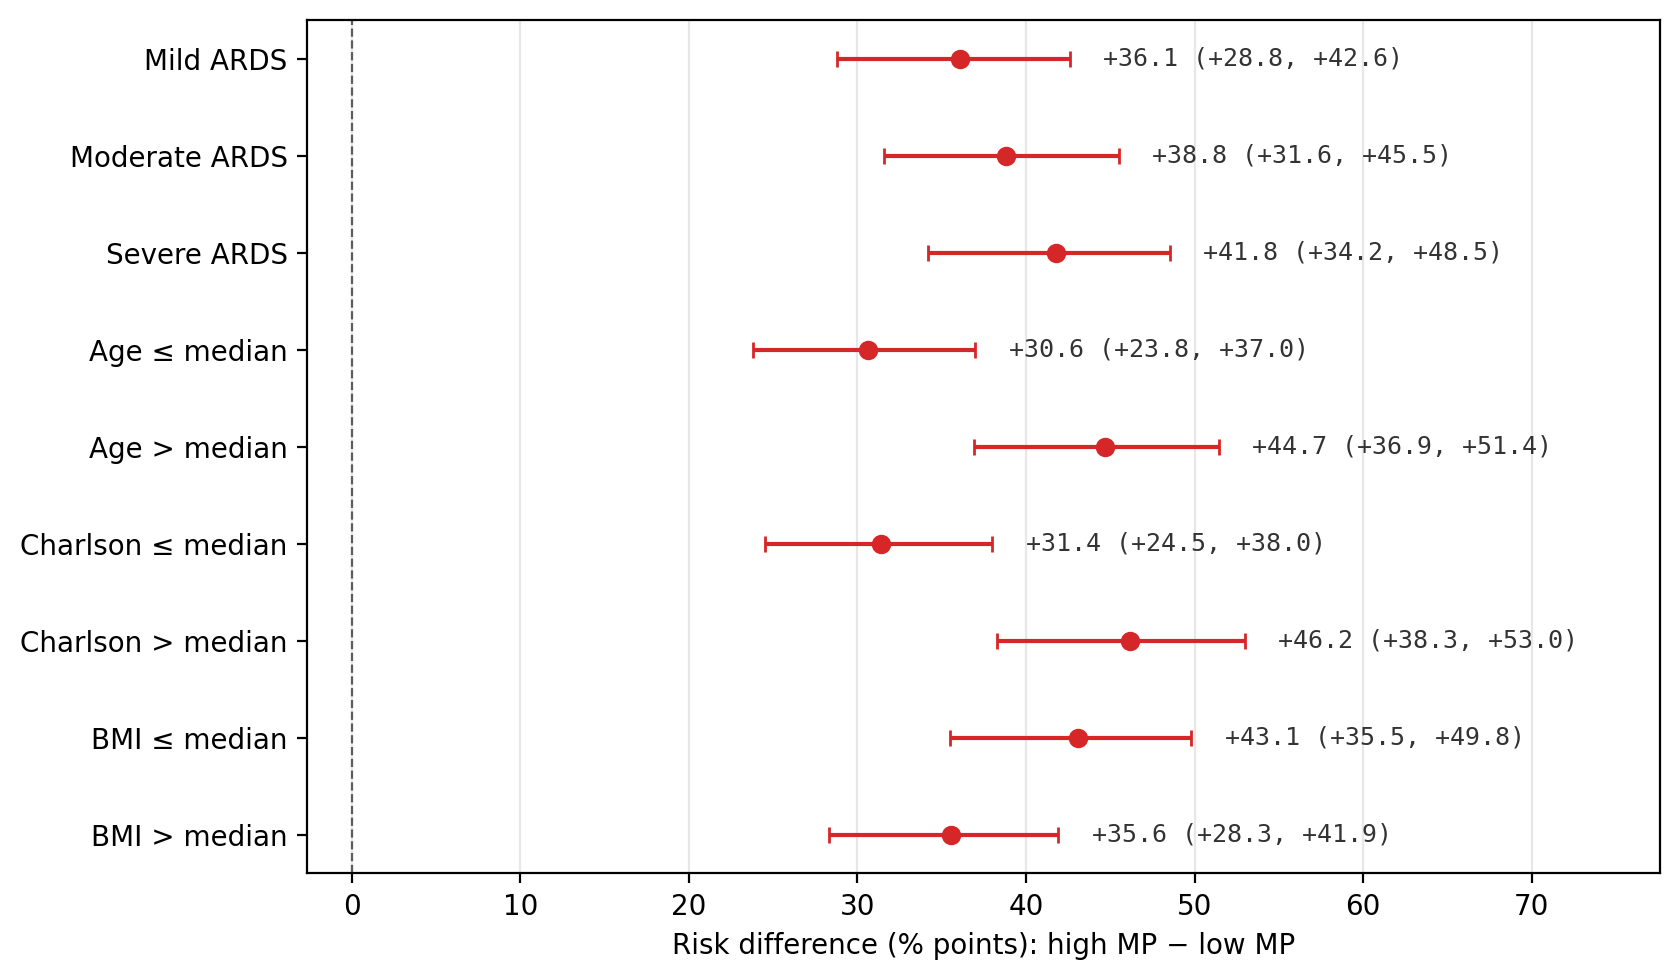
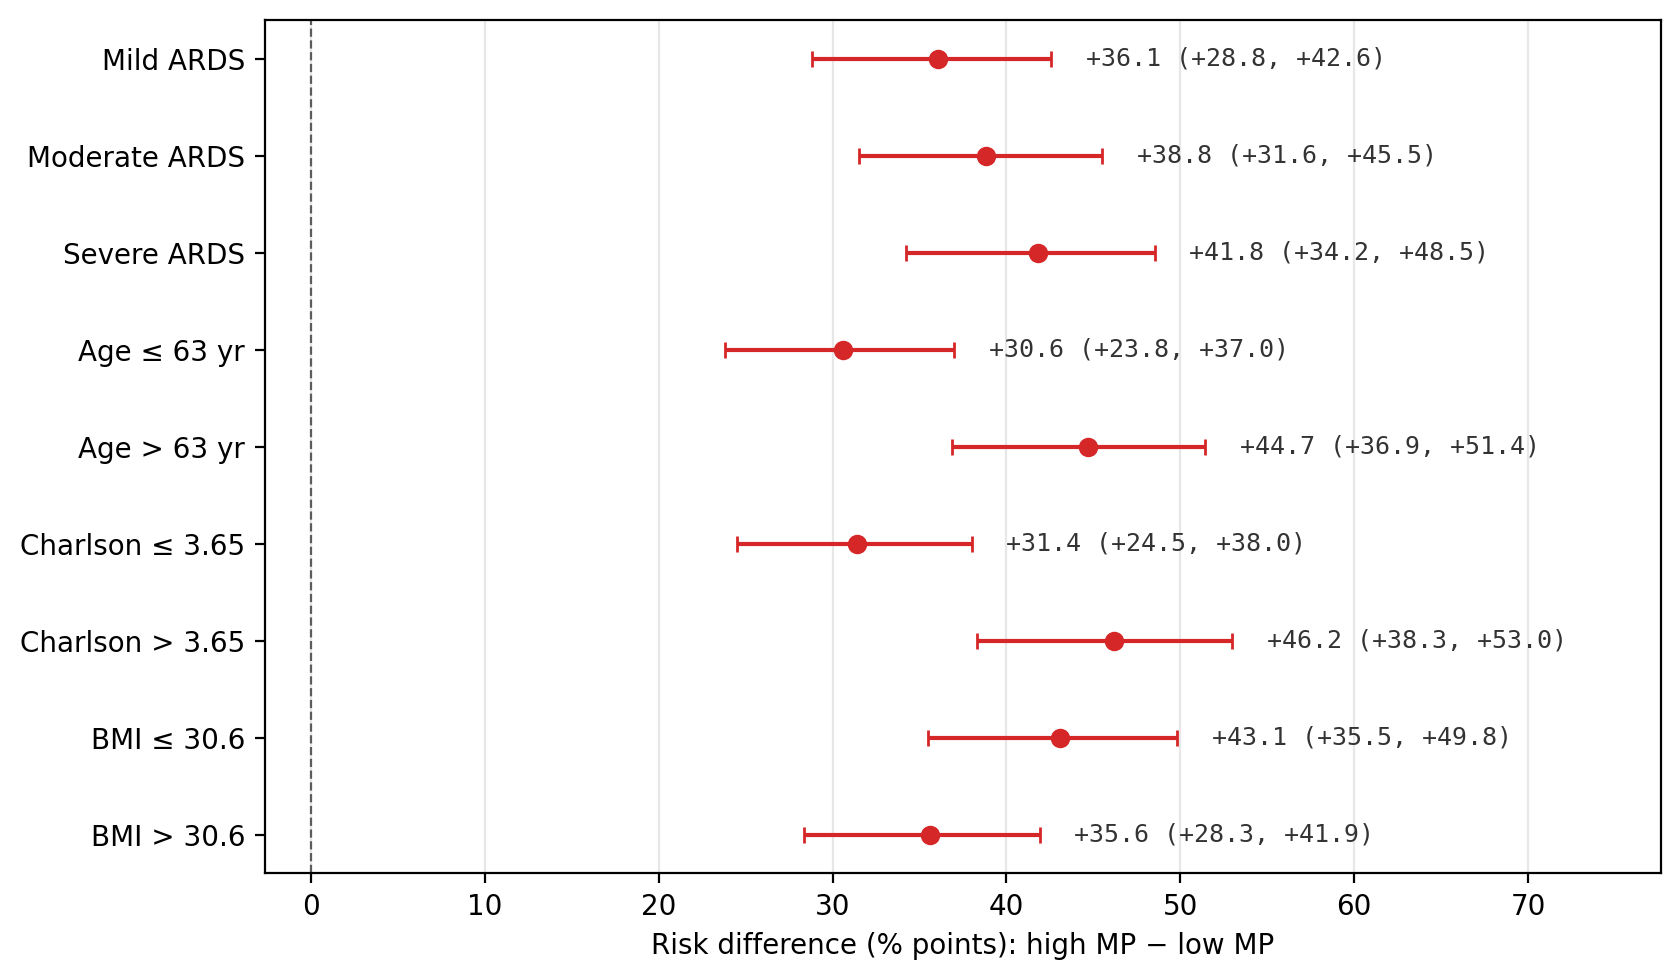
Fig 4: explicit subgroup cutoffs (Age 63 yr, BMI 30.6, Charlson 3.65 — cohort means). README: replace fragile inline LaTeX (operatorname/comma/hat) with Unicode (±, ≤, ≥, λ, τ, etc.) for robust GitHub rendering, drop Figure-N prefixes

diff --git a/scripts/make_figures.py b/scripts/make_figures.py
@@ -111,11 +111,13 @@ def fig4_subgroup_forest(args):
     idx = [names.index(n) for n in order if n in names]
     fig, ax = plt.subplots(figsize=(8.5, 5))
     y = np.arange(len(idx))
+    # Subgroup cutoffs are at cohort means (z-score = 0):
+    # age = 62.9 yr, BMI = 30.6, Charlson = 3.65
     label_pretty = {
         "mild": "Mild ARDS", "moderate": "Moderate ARDS", "severe": "Severe ARDS",
-        "age_low": "Age ≤ median", "age_high": "Age > median",
-        "charlson_low": "Charlson ≤ median", "charlson_high": "Charlson > median",
-        "bmi_low": "BMI ≤ median", "bmi_high": "BMI > median",
+        "age_low": "Age ≤ 63 yr", "age_high": "Age > 63 yr",
+        "charlson_low": "Charlson ≤ 3.65", "charlson_high": "Charlson > 3.65",
+        "bmi_low": "BMI ≤ 30.6", "bmi_high": "BMI > 30.6",
     }
     for i, j in enumerate(idx):
         ax.errorbar(rd[j], y[i],

diff --git a/README.md b/README.md
@@ -35,10 +35,10 @@ of approximately 17 J/min.
 
 ![Dose-response: 4-method comparison and K=5 with credible band](results/figures/fig3_dose_response.png)
 
-*Figure 3.* Left: four-method overlay on log-MP axis. Standard NICE
+Left: four-method overlay on log-MP axis. Standard NICE
 (grey, frequentist), K=1 NICE Bayesian (blue), and K=5 FRE-NICE Bayesian
 (red) cluster tightly above approximately 6 J/min; the Xu (2024) Bayesian
-GLMM (orange, observed-$L$ plug-in) is essentially flat. Dashed vertical
+GLMM (orange, observed-L plug-in) is essentially flat. Dashed vertical
 line marks the Costa et al. (2021) 17 J/min clinical cutoff. Right: K=5
 posterior mean with 95% credible band.
 
@@ -70,61 +70,62 @@ confirms this:
 | **K=5 FRE-NICE** | **25.1%** | **$-0.5$ p.p.** | **✓** |
 | Xu Bayesian (MSM) | 29.3% | $+3.7$ p.p. | overshoot |
 
-The NICE-family miss is within $\pm 1$ percentage point; the Xu
+The NICE-family miss is within ±1 percentage point; the Xu
 overshoot is consistent with the framework attenuation argument.
 
 ### Bayesian model comparison (WAIC and PSIS-LOO)
 
 Cluster-level (per-subject) log-likelihood across the three Bayesian
-methods (Standard is frequentist and excluded). All Pareto-$\hat k \le 0.50$.
+methods (Standard is frequentist and excluded). All Pareto-k diagnostics
+were ≤ 0.50, indicating reliable PSIS-LOO estimation.
 
-| Method | WAIC | $\Delta\mathrm{ELPD}$ vs K=5 | $p_{\mathrm{waic}}$ |
+| Method | WAIC | ΔELPD vs K=5 | p_waic |
 |---|---|---|---|
-| **K=5 FRE-NICE** | **34{,}404** | $0$ (favored) | 4{,}600 |
-| K=1 NICE | 35{,}686 | $-641$ | 2{,}084 |
-| Xu Bayesian | 35{,}676 | $-636$ | 2{,}097 |
+| **K=5 FRE-NICE** | **34,404** | 0 (favored) | 4,600 |
+| K=1 NICE | 35,686 | −641 | 2,084 |
+| Xu Bayesian | 35,676 | −636 | 2,097 |
 
 K=5 is decisively preferred; K=1 and Xu Bayesian are confirmed
-mathematically equivalent in fitting ($\Delta\mathrm{ELPD} = -4.9$).
+mathematically equivalent in fitting (ΔELPD = −4.9).
 
 ### Subgroup analysis
 
 ![Subgroup forest plot of dose-response gradient](results/figures/fig4_subgroup_forest.png)
 
-*Figure 4.* All nine pre-specified strata show strong positive risk
-differences (high MP minus low MP). Severity, age, and Charlson
-co-morbidity gradients amplify the effect; a BMI obesity-paradox-
-consistent signal is observed (low-BMI subjects show larger absolute
-effect than high-BMI).
+All nine pre-specified strata show strong positive risk differences
+(high MP minus low MP). Subgroup cutoffs for continuous variables are
+at the cohort means: age 62.9 yr, BMI 30.6, Charlson 3.65 (rounded in
+labels). Severity, age, and Charlson co-morbidity gradients amplify
+the effect; a BMI obesity-paradox-consistent signal is observed (lower
+BMI subjects show larger absolute effect).
 
 ### Sensitivity and robustness — summary
 
-- **Knot sensitivity** ($K = 4, 5, 6$): dose-response stable within
-  $\pm 0.3$ p.p.
-- **Spec II ablation** (shared RE on $L$): $|\lambda_j| \le 0.011$ for
-  all eight $L$ equations — Y-only RE is parsimonious and sufficient.
-- **Prior sensitivity** (HalfCauchy(0, 2.5) vs Gamma(2, 0.5) on $\tau$):
+- **Knot sensitivity** (K = 4, 5, 6): dose-response stable within
+  ±0.3 p.p.
+- **Spec II ablation** (shared RE on L): |λ_j| ≤ 0.011 for all eight L
+  equations — Y-only RE is parsimonious and sufficient.
+- **Prior sensitivity** (HalfCauchy(0, 2.5) vs Gamma(2, 0.5) on τ):
   identical to within Monte Carlo noise.
-- **Held-out 20% PPC**: day-by-day calibration within $\pm 3$ p.p.
-  across the 28-day course (day-28 miss $-2.6$ p.p., predicted 19.5%
-  vs observed 22.0%).
+- **Held-out 20% PPC**: day-by-day calibration within ±3 p.p. across
+  the 28-day course (day-28 miss −2.6 p.p., predicted 19.5% vs observed
+  22.0%).
 - **Leave-one-covariate-out (LOCO) on 12 covariates × 3 methods**: the
   dose-response is stable across all proper confounder exclusions.
-  $\mathrm{PaO_2}/\mathrm{FiO_2}$ ratio (the ARDS-defining variable)
-  is the only exclusion producing a large shift ($+43$ p.p. at the
-  reference bin in all three methods, reported as a domain-knowledge
-  sanity check rather than as a confounding signal). Lactate is the
-  dominant proper time-varying confounder (Standard $+7.6$, K=1 $+9.0$,
-  K=5 $+8.6$ p.p.). Three-method concordance supports robustness;
-  the underlying per-covariate risks are in `results/loco_K1/` and
-  `results/loco_K5/`.
+  PaO₂/FiO₂ ratio (the ARDS-defining variable) is the only exclusion
+  producing a large shift (+43 p.p. at the reference bin in all three
+  methods, reported as a domain-knowledge sanity check rather than as
+  a confounding signal). Lactate is the dominant proper time-varying
+  confounder (Standard +7.6, K=1 +9.0, K=5 +8.6 p.p.). Three-method
+  concordance supports robustness; the underlying per-covariate risks
+  are in `results/loco_K1/` and `results/loco_K5/`.
 - **E-value** at the canonical low-vs-reference contrast (bin 7 vs
   bin 16): **8.71** at the point estimate and **7.23** at the
   credible-interval bound — an unmeasured confounder would need to be
   associated with both exposure and outcome by approximately 7-fold to
   fully explain the observed effect.
 - **Convergence diagnostics**: across all primary NUTS fits,
-  $\hat R \le 1.08$, ESS $\ge 71$, and **zero divergent transitions**.
+  R-hat ≤ 1.08, ESS ≥ 71, and **zero divergent transitions**.
 
 ---
 
